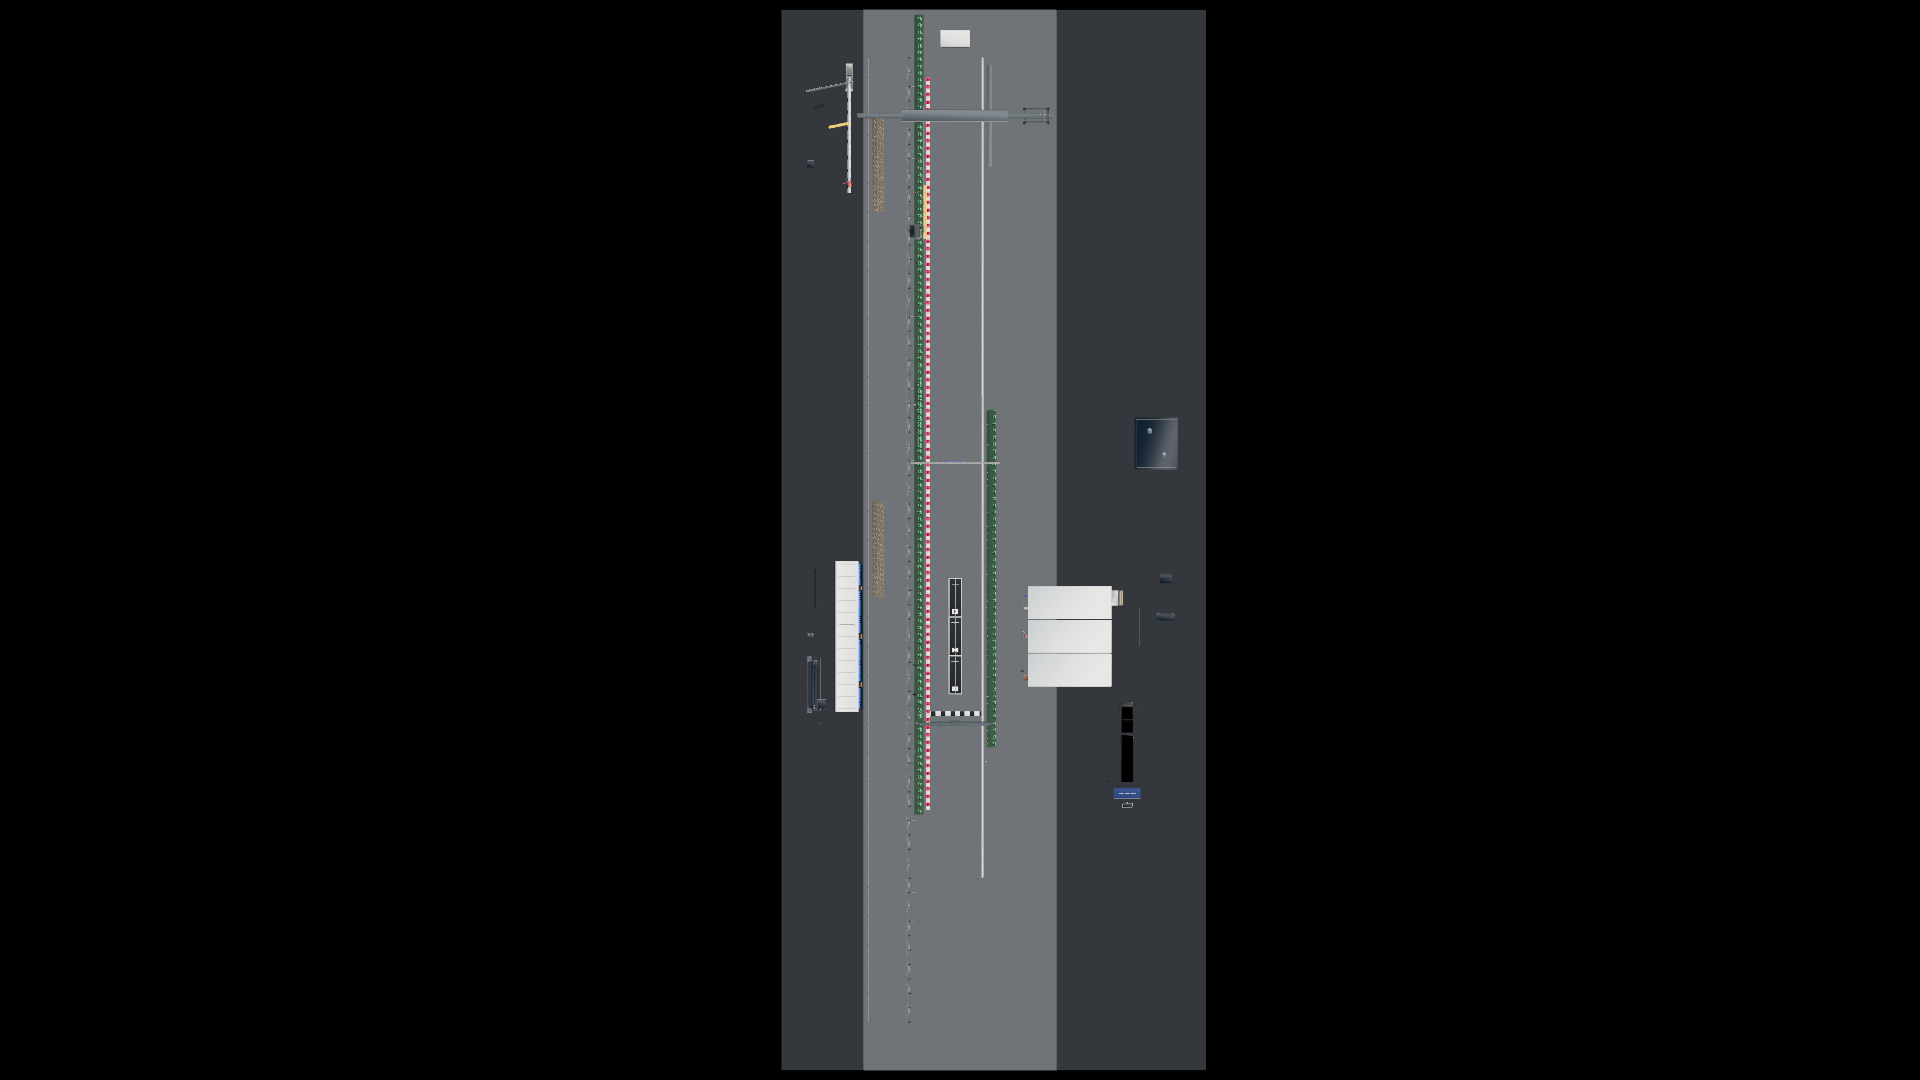
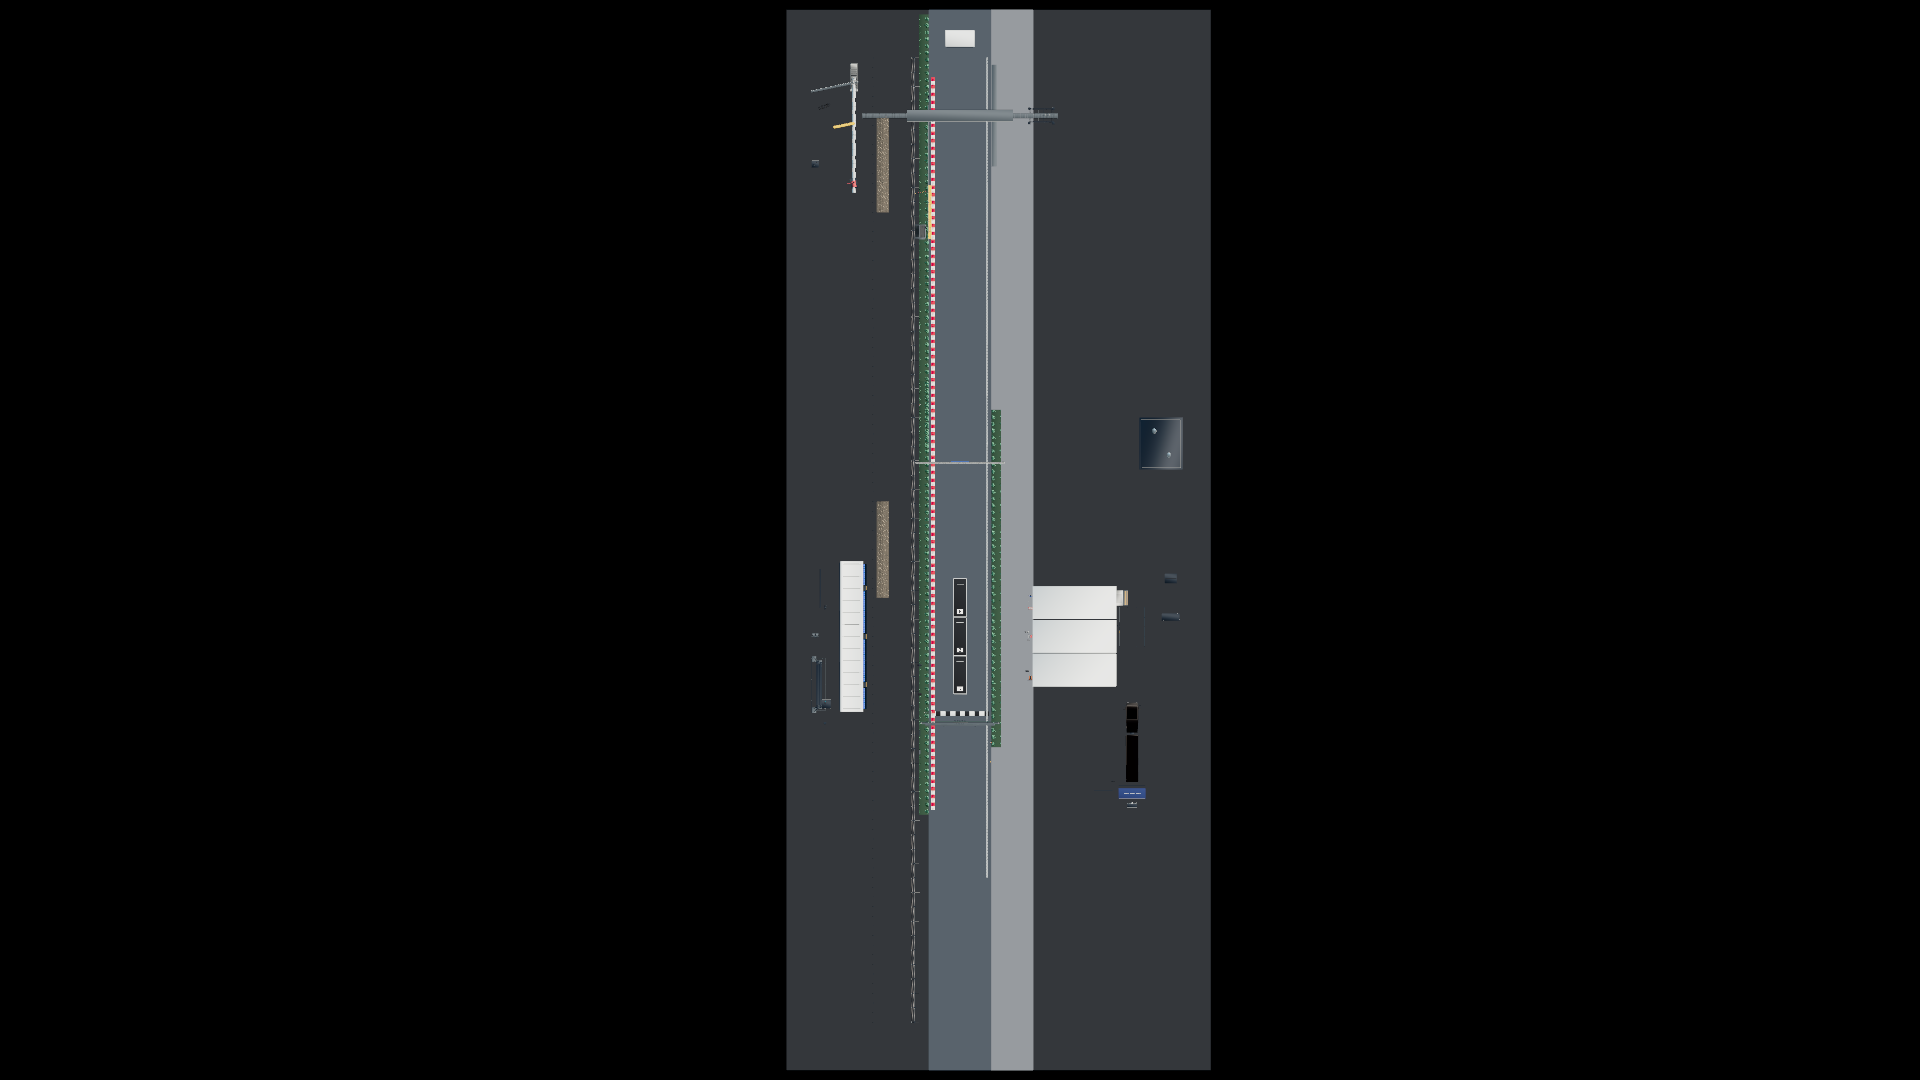
feat(f1-kit): make kerb-to-kerb asphalt actually visible
Crushed INK-950 made the 13 m ribbon vanish on the dark preview, so only the 2.7 m FIA grid pads still read as road. Lift the racing surface to GRAPHITE+0.08, the pit apron to GRAPHITE+0.32, and run the ribbon under the kerbs to the turf.

Changed region(s): [[0.4062, 0.0, 0.5938, 1.0], [0.5938, 0.3972, 0.625, 0.4278]]

diff --git a/assets/f1-prototypes/f1-kit-scene/kit-scene.ts b/assets/f1-prototypes/f1-kit-scene/kit-scene.ts
@@ -119,8 +119,8 @@ const ALONG = Math.PI / 2
 
 const RIBBON_W = 12
 const RIBBON_HALF = RIBBON_W / 2
-/** Dark racing ribbon is kerb-to-kerb (12 m). Pit apron is a lighter pad to the doors. */
-const ROAD_W = 12
+/** Dark racing ribbon tucks under the kerbs and meets the turf (13 m). Pit apron is a lighter pad to the doors. */
+const ROAD_W = 13
 const ROAD_X = 0
 const ROAD_LEN = 220
 const ROAD_Z = 20
@@ -151,13 +151,13 @@ export function createScene(): F1KitScene {
 
   const asphaltMat = new MeshStandardMaterial({
     name: 'f1-kit / scene asphalt',
-    color: shade(TOKEN.INK_950, -0.12),
+    color: shade(TOKEN.GRAPHITE_800, 0.08),
     roughness: 0.92,
     metalness: 0,
   })
   const apronMat = new MeshStandardMaterial({
     name: 'f1-kit / scene apron',
-    color: shade(TOKEN.INK_950, 0.28),
+    color: shade(TOKEN.GRAPHITE_800, 0.32),
     roughness: 0.94,
     metalness: 0,
   })
